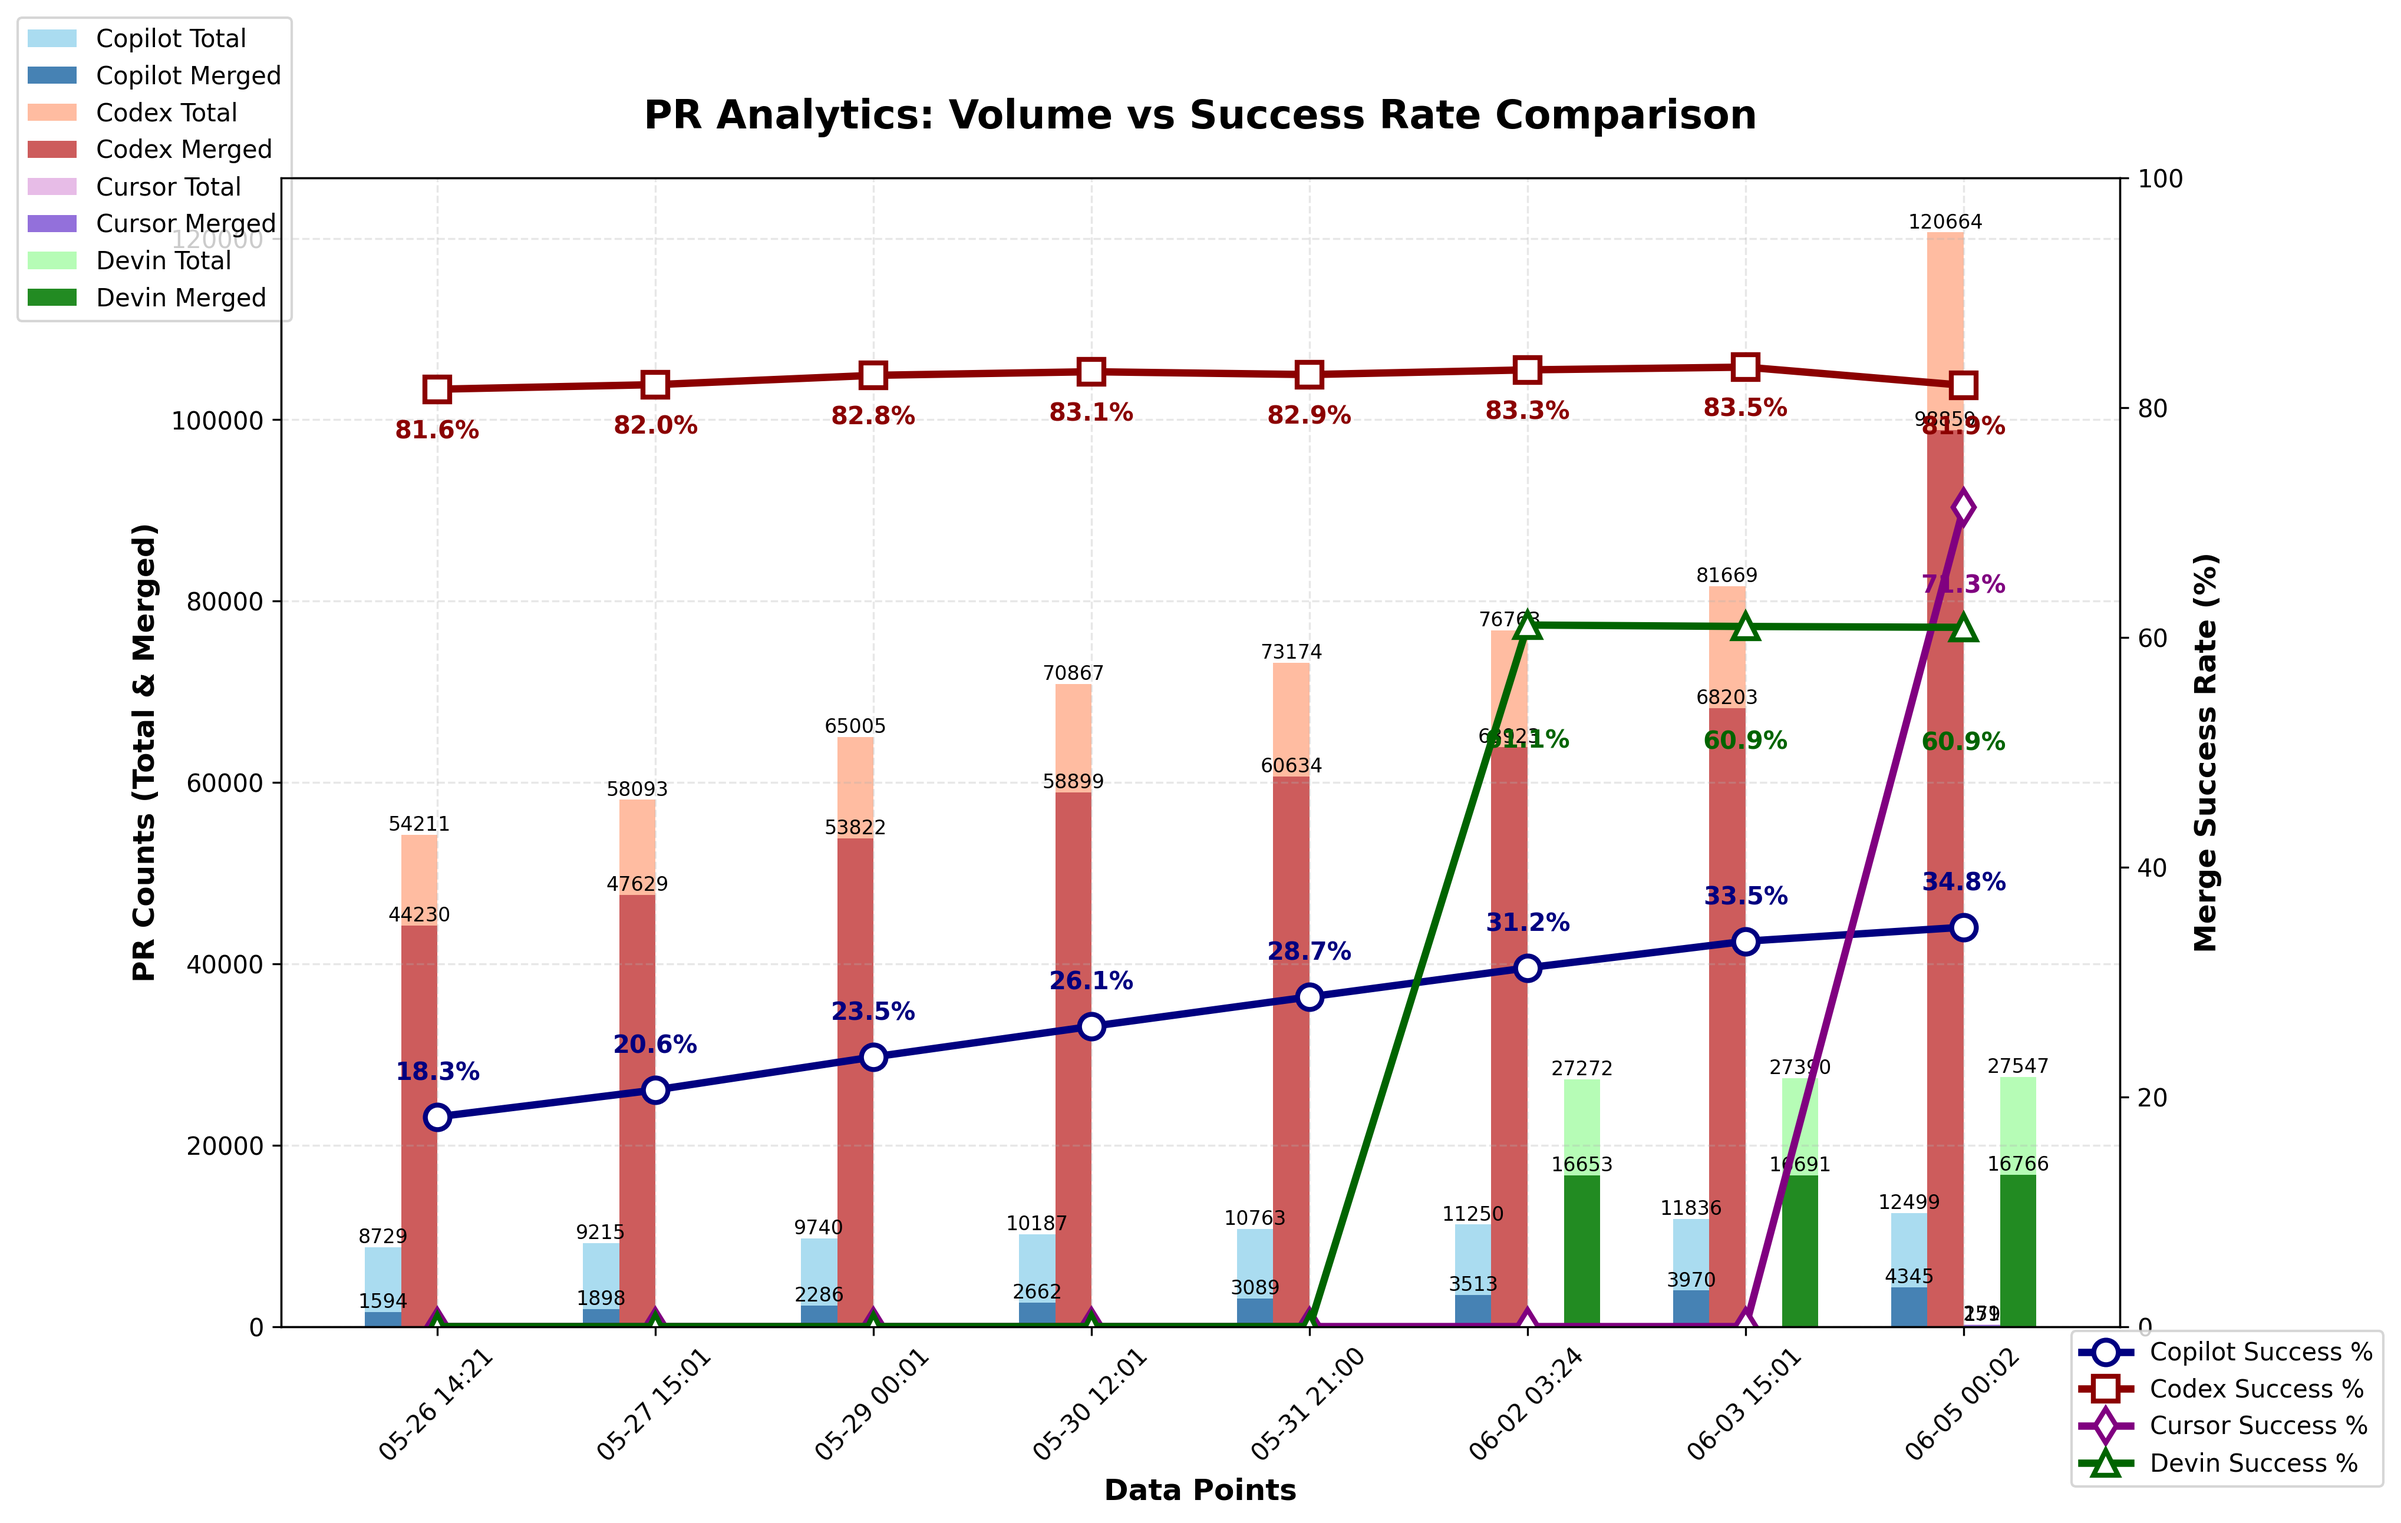
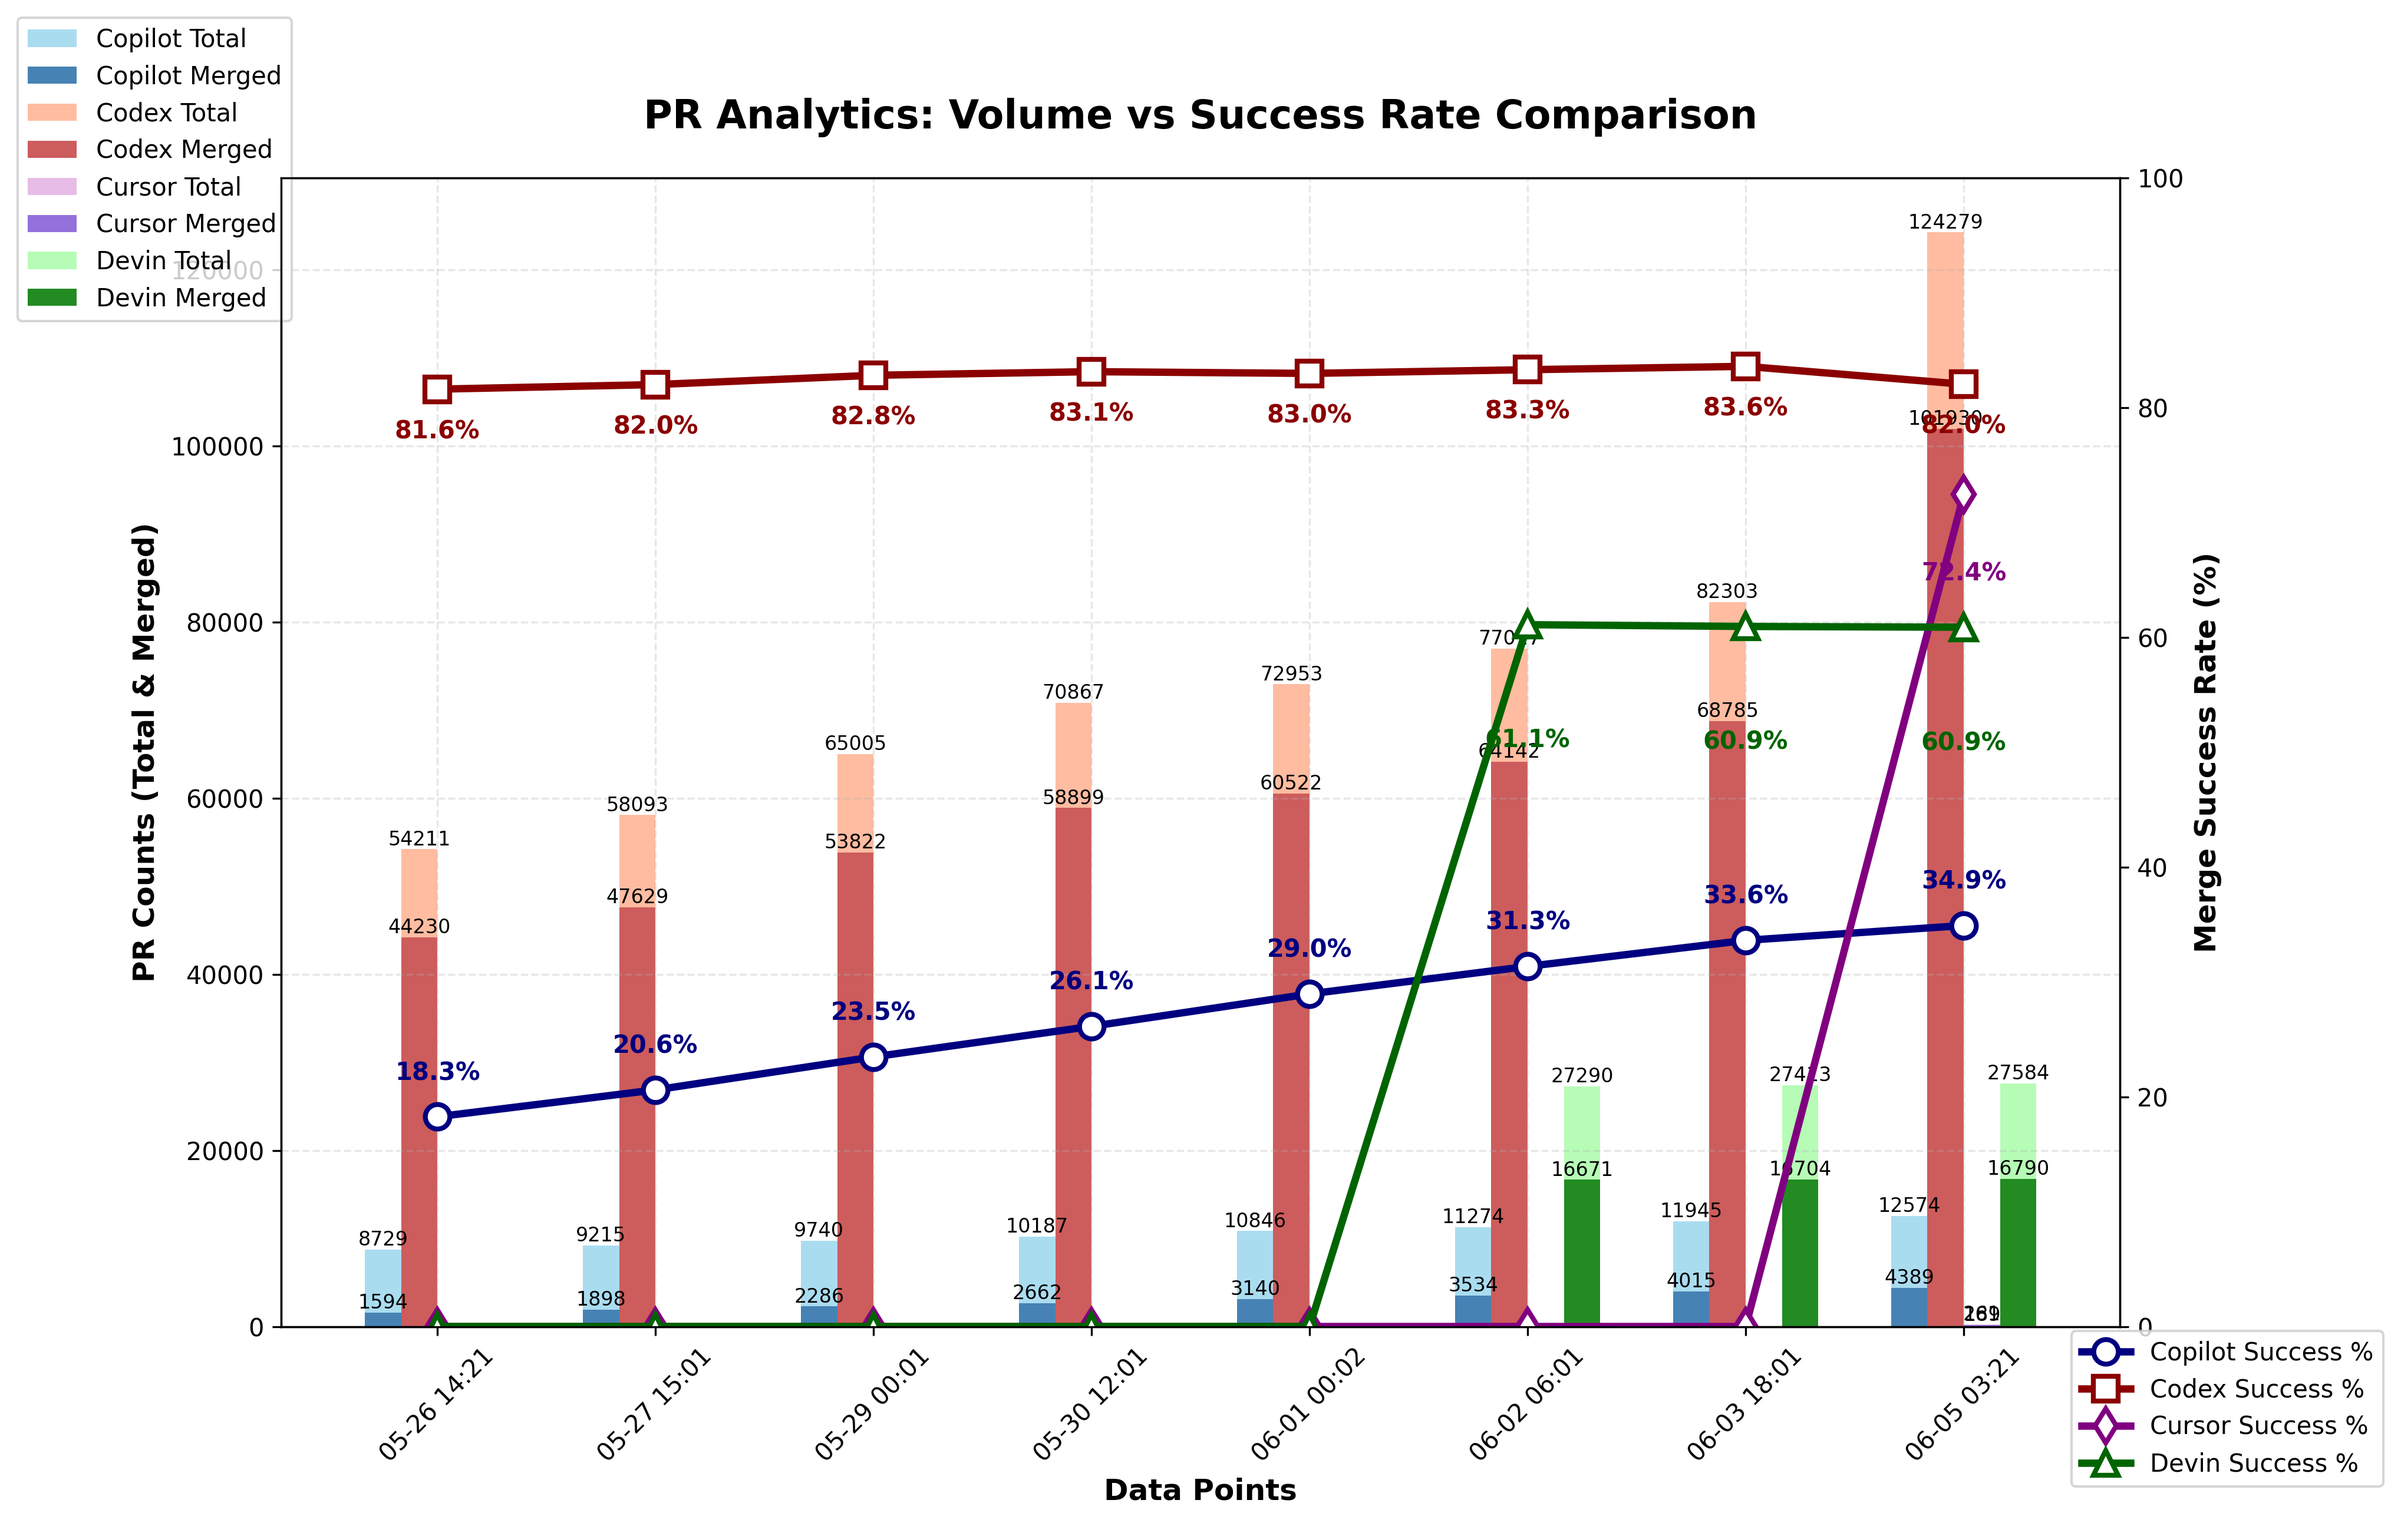
chore: update PR‑approval chart

diff --git a/docs/index.html b/docs/index.html
@@ -48,34 +48,34 @@
                 <tbody>
                     <tr>
                         <td>Copilot</td>
-                        <td>12,499</td>
-                        <td>4,345</td>
-                        <td>34.76%</td>
+                        <td>12,574</td>
+                        <td>4,389</td>
+                        <td>34.91%</td>
                     </tr>
                     <tr>
                         <td>Codex</td>
-                        <td>120,664</td>
-                        <td>98,859</td>
-                        <td>81.93%</td>
+                        <td>124,279</td>
+                        <td>101,930</td>
+                        <td>82.02%</td>
                     </tr>
                     <tr>
                         <td>Cursor</td>
-                        <td>251</td>
-                        <td>179</td>
-                        <td>71.31%</td>
+                        <td>261</td>
+                        <td>189</td>
+                        <td>72.41%</td>
                     </tr>
                     <tr>
                         <td>Devin</td>
-                        <td>27,547</td>
-                        <td>16,766</td>
-                        <td>60.86%</td>
+                        <td>27,584</td>
+                        <td>16,790</td>
+                        <td>60.87%</td>
                     </tr>
                 </tbody>
             </table>
         </section>
 
         <footer>
-            <p>Last updated: <span id="last-updated">June 05, 2025 00:02 UTC</span></p>
+            <p>Last updated: <span id="last-updated">June 05, 2025 03:21 UTC</span></p>
             <p><a href="https://github.com/aavetis/ai-pr-watcher">View on GitHub</a></p>
         </footer>
     </div>

diff --git a/README.md b/README.md
@@ -23,7 +23,7 @@ Explore the GitHub search queries used:
 
 | Project | Total PRs | Merged PRs | Merge Rate |
 | ------- | --------- | ---------- | ---------- |
-| Copilot | 12,499 | 4,345 | 34.76% |
-| Codex   | 120,664 | 98,859 | 81.93% |
-| Cursor  | 251 | 179 | 71.31% |
-| Devin   | 27,547 | 16,766 | 60.86% |
+| Copilot | 12,574 | 4,389 | 34.91% |
+| Codex   | 124,279 | 101,930 | 82.02% |
+| Cursor  | 261 | 189 | 72.41% |
+| Devin   | 27,584 | 16,790 | 60.87% |
